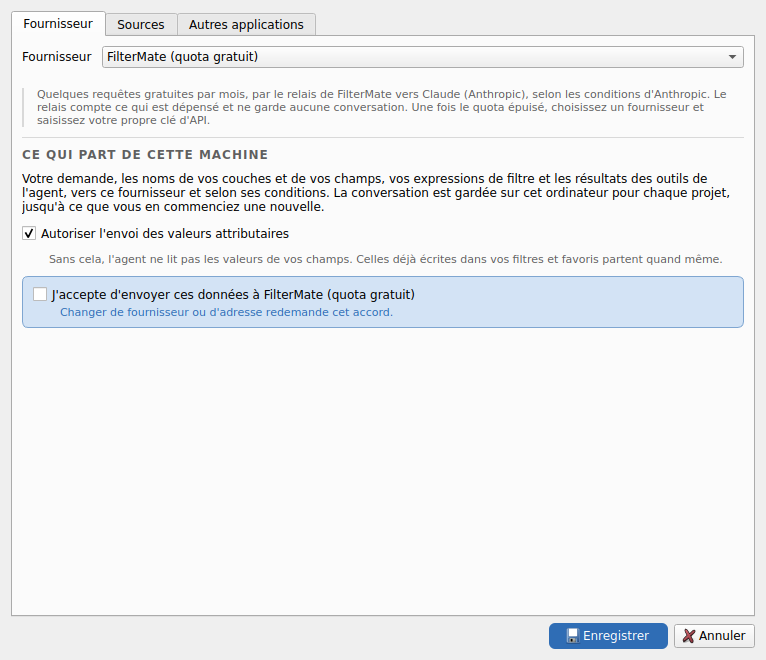
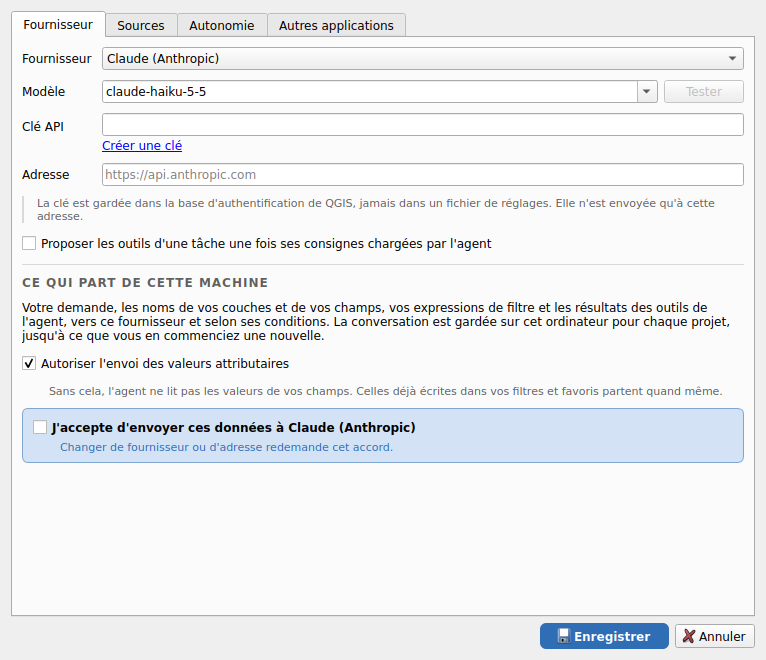
Docs: the guide's settings screenshots retaken without the free quota; Ollama needs no key
A script opens the real settings dialog in QGIS without a screen and saves the two images of the guide
(English and French). The plugin description and the home pages say that the key is for Claude, Mistral,
OpenAI and compatible servers, and that a local Ollama model needs none.

diff --git a/website/index.ru.html b/website/index.ru.html
@@ -124,7 +124,7 @@
             <div class="section-heading"><p class="section-kicker">Экспериментально · Новое в FilterMate 5.1</p><h2 id="agent-title">Попросите фильтр одной фразой.</h2><p>AGENT — это чат в верхней части панели. Напишите, что нужно, например здания выше 1200 m в выбранной коммуне, и он отфильтрует, выделит, приблизит или экспортирует. Любой шаг можно отменить.</p></div>
             <a class="inline-cta" href="guide.html#agent" hreflang="en">Прочитать главу Agent <span aria-hidden="true">→</span> <small lang="en">(EN)</small></a>
         </div>
-        <ul class="capability-list"><li><strong>Ваша модель</strong><span>Claude, Mistral, OpenAI и совместимые серверы или локальная модель Ollama. Ваш собственный ключ API, который хранится в базе аутентификации QGIS; настройки подскажут в обоих случаях.</span></li><li><strong>Отмена по шагам</strong><span>Фильтры применяются сразу. Undo и Redo проходят по запросам агента, а Undo back to here возвращает к любому шагу.</span></li><li><strong>Алгоритмы QGIS</strong><span>Он может находить и запускать алгоритмы Processing, которые создают слои или статистику, на слоях проекта. Каждый результат — временный слой, который удаляет Undo.</span></li><li><strong>Подтверждаете вы</strong><span>Экспорт, а также добавление и удаление слоёв сначала запрашивают подтверждение. Фильтр — это одно простое предложение WHERE, которое проверяется перед выполнением.</span></li><li><strong>Источники, которые вы отмечаете</strong><span>Порталы открытых данных, сервисы WFS, сцены Sentinel-2 и коннекторы MCP — всё выключено, пока вы не отметите.</span></li><li><strong>Сначала ваше согласие</strong><span>Ничего не отправляется, пока вы не выберете модель и не дадите согласие. В руководстве перечислено, что уходит с каждым запросом.</span></li><li><strong>Сервер MCP</strong><span>По умолчанию выключен. Claude Code или другой MCP-клиент на вашем компьютере может управлять FilterMate через 127.0.0.1 с токеном доступа.</span></li></ul>
+        <ul class="capability-list"><li><strong>Ваша модель</strong><span>Ваш собственный ключ API для Claude, Mistral, OpenAI или совместимого сервера, который хранится в базе аутентификации QGIS, либо локальная модель Ollama, которой ключ не нужен; настройки подскажут в обоих случаях.</span></li><li><strong>Отмена по шагам</strong><span>Фильтры применяются сразу. Undo и Redo проходят по запросам агента, а Undo back to here возвращает к любому шагу.</span></li><li><strong>Алгоритмы QGIS</strong><span>Он может находить и запускать алгоритмы Processing, которые создают слои или статистику, на слоях проекта. Каждый результат — временный слой, который удаляет Undo.</span></li><li><strong>Подтверждаете вы</strong><span>Экспорт, а также добавление и удаление слоёв сначала запрашивают подтверждение. Фильтр — это одно простое предложение WHERE, которое проверяется перед выполнением.</span></li><li><strong>Источники, которые вы отмечаете</strong><span>Порталы открытых данных, сервисы WFS, сцены Sentinel-2 и коннекторы MCP — всё выключено, пока вы не отметите.</span></li><li><strong>Сначала ваше согласие</strong><span>Ничего не отправляется, пока вы не выберете модель и не дадите согласие. В руководстве перечислено, что уходит с каждым запросом.</span></li><li><strong>Сервер MCP</strong><span>По умолчанию выключен. Claude Code или другой MCP-клиент на вашем компьютере может управлять FilterMate через 127.0.0.1 с токеном доступа.</span></li></ul>
     </div>
 </section>
 

diff --git a/website/index.ja.html b/website/index.ja.html
@@ -124,7 +124,7 @@
             <div class="section-heading"><p class="section-kicker">試験的機能 · FilterMate 5.1 の新機能</p><h2 id="agent-title">一文でフィルタを頼めます。</h2><p>AGENT はパネル上部のチャットです。「選択した市町村の標高 1200 m 以上の建物」のように書くと、フィルタ、選択、ズーム、エクスポートを行います。各ステップは元に戻せます。</p></div>
             <a class="inline-cta" href="guide.html#agent" hreflang="en">Agent の章を読む <span aria-hidden="true">→</span> <small lang="en">(EN)</small></a>
         </div>
-        <ul class="capability-list"><li><strong>使うモデル</strong><span>Claude、Mistral、OpenAI と互換サーバー、またはローカルの Ollama モデル。ご自身の API キーを使い、キーは QGIS の認証データベースに保存されます。設定画面がどちらも案内します。</span></li><li><strong>ステップごとに元に戻す</strong><span>フィルタはすぐに適用されます。Undo と Redo でエージェントのリクエストを順にたどり、Undo back to here で任意のステップまで戻れます。</span></li><li><strong>QGIS のアルゴリズム</strong><span>レイヤまたは統計値を出力する Processing アルゴリズムを、プロジェクトのレイヤに対して検索・実行できます。結果はそれぞれ一時レイヤで、Undo で取り除かれます。</span></li><li><strong>確認は利用者が行う</strong><span>エクスポートと、レイヤの追加・削除は、先に確認を求めます。フィルタは単純な WHERE 句ひとつで、実行前に検査されます。</span></li><li><strong>チェックを入れたソースだけ</strong><span>オープンデータポータル、WFS サービス、Sentinel-2 のシーン、MCP コネクタ。チェックを入れるまで、すべて無効です。</span></li><li><strong>まず同意を得る</strong><span>モデルを選んで同意するまで、何も送信されません。リクエストごとに何が送られるかは、ガイドに一覧があります。</span></li><li><strong>MCP サーバー</strong><span>初期設定ではオフです。お使いのコンピューター上の Claude Code などの MCP クライアントが、アクセストークンを使って 127.0.0.1 経由で FilterMate を操作できます。</span></li></ul>
+        <ul class="capability-list"><li><strong>使うモデル</strong><span>Claude、Mistral、OpenAI、互換サーバーにはご自身の API キーを使い、キーは QGIS の認証データベースに保存されます。ローカルの Ollama モデルにはキーは不要です。設定画面がどちらも案内します。</span></li><li><strong>ステップごとに元に戻す</strong><span>フィルタはすぐに適用されます。Undo と Redo でエージェントのリクエストを順にたどり、Undo back to here で任意のステップまで戻れます。</span></li><li><strong>QGIS のアルゴリズム</strong><span>レイヤまたは統計値を出力する Processing アルゴリズムを、プロジェクトのレイヤに対して検索・実行できます。結果はそれぞれ一時レイヤで、Undo で取り除かれます。</span></li><li><strong>確認は利用者が行う</strong><span>エクスポートと、レイヤの追加・削除は、先に確認を求めます。フィルタは単純な WHERE 句ひとつで、実行前に検査されます。</span></li><li><strong>チェックを入れたソースだけ</strong><span>オープンデータポータル、WFS サービス、Sentinel-2 のシーン、MCP コネクタ。チェックを入れるまで、すべて無効です。</span></li><li><strong>まず同意を得る</strong><span>モデルを選んで同意するまで、何も送信されません。リクエストごとに何が送られるかは、ガイドに一覧があります。</span></li><li><strong>MCP サーバー</strong><span>初期設定ではオフです。お使いのコンピューター上の Claude Code などの MCP クライアントが、アクセストークンを使って 127.0.0.1 経由で FilterMate を操作できます。</span></li></ul>
     </div>
 </section>
 

diff --git a/website/index.fr.html b/website/index.fr.html
@@ -120,7 +120,7 @@
             <div class="section-heading"><p class="section-kicker">Expérimental · Nouveau dans FilterMate 5.1</p><h2 id="agent-title">Demandez un filtre en une phrase.</h2><p>AGENT est un tchat en haut du panneau. Écrivez ce que vous voulez, par exemple les bâtiments au-dessus de 1200 m dans la commune sélectionnée, et il filtre, sélectionne, zoome ou exporte. Chaque étape peut être annulée.</p></div>
             <a class="inline-cta" href="guide.fr.html#agent">Lire le chapitre Agent <span aria-hidden="true">→</span></a>
         </div>
-        <ul class="capability-list"><li><strong>Votre modèle</strong><span>Claude, Mistral, OpenAI et serveurs compatibles, ou un modèle Ollama local. Votre propre clé d’API, conservée dans la base d’authentification de QGIS ; les réglages guident dans les deux cas.</span></li><li><strong>Annuler par étape</strong><span>Les filtres s’appliquent aussitôt. Undo et Redo parcourent les demandes de l’agent, et « Annuler jusqu’ici » revient à n’importe quelle étape.</span></li><li><strong>Algorithmes QGIS</strong><span>Il peut chercher et lancer des algorithmes Processing qui produisent des couches ou des statistiques, sur des couches du projet. Chaque résultat est une couche temporaire que Undo retire.</span></li><li><strong>Vous confirmez</strong><span>Les exports et les couches ajoutées ou retirées demandent d’abord. Un filtre est une simple clause WHERE, vérifiée avant de s’exécuter.</span></li><li><strong>Sources que vous cochez</strong><span>Portails de données ouvertes, services WFS, scènes Sentinel-2 et connecteurs MCP, tous désactivés tant que vous ne les cochez pas.</span></li><li><strong>Votre accord d’abord</strong><span>Rien n’est envoyé avant que vous ayez choisi un modèle et donné votre accord. Le guide liste ce qui part avec chaque requête.</span></li><li><strong>Serveur MCP</strong><span>Désactivé par défaut. Claude Code ou un autre client MCP de votre ordinateur peut piloter FilterMate par 127.0.0.1, avec un jeton d’accès.</span></li></ul>
+        <ul class="capability-list"><li><strong>Votre modèle</strong><span>Votre propre clé d’API pour Claude, Mistral, OpenAI ou un serveur compatible, conservée dans la base d’authentification de QGIS, ou un modèle Ollama local, qui n’en demande aucune ; les réglages guident dans les deux cas.</span></li><li><strong>Annuler par étape</strong><span>Les filtres s’appliquent aussitôt. Undo et Redo parcourent les demandes de l’agent, et « Annuler jusqu’ici » revient à n’importe quelle étape.</span></li><li><strong>Algorithmes QGIS</strong><span>Il peut chercher et lancer des algorithmes Processing qui produisent des couches ou des statistiques, sur des couches du projet. Chaque résultat est une couche temporaire que Undo retire.</span></li><li><strong>Vous confirmez</strong><span>Les exports et les couches ajoutées ou retirées demandent d’abord. Un filtre est une simple clause WHERE, vérifiée avant de s’exécuter.</span></li><li><strong>Sources que vous cochez</strong><span>Portails de données ouvertes, services WFS, scènes Sentinel-2 et connecteurs MCP, tous désactivés tant que vous ne les cochez pas.</span></li><li><strong>Votre accord d’abord</strong><span>Rien n’est envoyé avant que vous ayez choisi un modèle et donné votre accord. Le guide liste ce qui part avec chaque requête.</span></li><li><strong>Serveur MCP</strong><span>Désactivé par défaut. Claude Code ou un autre client MCP de votre ordinateur peut piloter FilterMate par 127.0.0.1, avec un jeton d’accès.</span></li></ul>
     </div>
 </section>
 

diff --git a/website/index.de.html b/website/index.de.html
@@ -124,7 +124,7 @@
             <div class="section-heading"><p class="section-kicker">Experimentell · Neu in FilterMate 5.1</p><h2 id="agent-title">Bitten Sie in einem Satz um einen Filter.</h2><p>AGENT ist ein Chat oben im Panel. Schreiben Sie, was Sie wollen, etwa Gebäude über 1200 m in der gewählten Gemeinde, und er filtert, wählt aus, zoomt oder exportiert. Jeder Schritt lässt sich rückgängig machen.</p></div>
             <a class="inline-cta" href="guide.html#agent" hreflang="en">Das Kapitel Agent lesen <span aria-hidden="true">→</span> <small lang="en">(EN)</small></a>
         </div>
-        <ul class="capability-list"><li><strong>Ihr Modell</strong><span>Claude, Mistral, OpenAI und kompatible Server oder ein lokales Ollama-Modell. Ihr eigener API-Schlüssel, gespeichert in der QGIS-Authentifizierungsdatenbank; die Einstellungen führen durch beides.</span></li><li><strong>Rückgängig pro Schritt</strong><span>Filter werden sofort angewendet. Undo und Redo gehen die Anfragen des Agenten durch, und „Undo back to here“ führt zu jedem Schritt zurück.</span></li><li><strong>QGIS-Algorithmen</strong><span>Er kann Processing-Algorithmen finden und ausführen, die Ebenen oder Statistiken liefern, auf Ebenen des Projekts. Jedes Ergebnis ist eine temporäre Ebene, die Undo entfernt.</span></li><li><strong>Sie bestätigen</strong><span>Exporte sowie hinzugefügte oder entfernte Ebenen fragen zuerst nach. Ein Filter ist eine einfache WHERE-Klausel, die vor der Ausführung geprüft wird.</span></li><li><strong>Quellen, die Sie ankreuzen</strong><span>Open-Data-Portale, WFS-Dienste, Sentinel-2-Szenen und MCP-Konnektoren, alle aus, bis Sie sie ankreuzen.</span></li><li><strong>Erst Ihre Zustimmung</strong><span>Nichts wird gesendet, bevor Sie ein Modell wählen und zustimmen. Die Anleitung listet auf, was mit jeder Anfrage mitgeht.</span></li><li><strong>MCP-Server</strong><span>Standardmäßig aus. Claude Code oder ein anderer MCP-Client auf Ihrem Rechner kann FilterMate über 127.0.0.1 steuern, mit einem Zugriffstoken.</span></li></ul>
+        <ul class="capability-list"><li><strong>Ihr Modell</strong><span>Ihr eigener API-Schlüssel für Claude, Mistral, OpenAI oder einen kompatiblen Server, gespeichert in der QGIS-Authentifizierungsdatenbank, oder ein lokales Ollama-Modell, das keinen braucht; die Einstellungen führen durch beides.</span></li><li><strong>Rückgängig pro Schritt</strong><span>Filter werden sofort angewendet. Undo und Redo gehen die Anfragen des Agenten durch, und „Undo back to here“ führt zu jedem Schritt zurück.</span></li><li><strong>QGIS-Algorithmen</strong><span>Er kann Processing-Algorithmen finden und ausführen, die Ebenen oder Statistiken liefern, auf Ebenen des Projekts. Jedes Ergebnis ist eine temporäre Ebene, die Undo entfernt.</span></li><li><strong>Sie bestätigen</strong><span>Exporte sowie hinzugefügte oder entfernte Ebenen fragen zuerst nach. Ein Filter ist eine einfache WHERE-Klausel, die vor der Ausführung geprüft wird.</span></li><li><strong>Quellen, die Sie ankreuzen</strong><span>Open-Data-Portale, WFS-Dienste, Sentinel-2-Szenen und MCP-Konnektoren, alle aus, bis Sie sie ankreuzen.</span></li><li><strong>Erst Ihre Zustimmung</strong><span>Nichts wird gesendet, bevor Sie ein Modell wählen und zustimmen. Die Anleitung listet auf, was mit jeder Anfrage mitgeht.</span></li><li><strong>MCP-Server</strong><span>Standardmäßig aus. Claude Code oder ein anderer MCP-Client auf Ihrem Rechner kann FilterMate über 127.0.0.1 steuern, mit einem Zugriffstoken.</span></li></ul>
     </div>
 </section>
 

diff --git a/website/index.it.html b/website/index.it.html
@@ -124,7 +124,7 @@
             <div class="section-heading"><p class="section-kicker">Sperimentale · Novità di FilterMate 5.1</p><h2 id="agent-title">Chiedete un filtro con una frase.</h2><p>AGENT è una chat in cima al pannello. Scrivete ciò che volete, per esempio gli edifici sopra i 1200 m nel comune selezionato, e filtra, seleziona, zooma o esporta. Ogni passaggio si può annullare.</p></div>
             <a class="inline-cta" href="guide.html#agent" hreflang="en">Leggi il capitolo Agent <span aria-hidden="true">→</span> <small lang="en">(EN)</small></a>
         </div>
-        <ul class="capability-list"><li><strong>Il vostro modello</strong><span>Claude, Mistral, OpenAI e server compatibili, oppure un modello Ollama locale. La vostra chiave API, conservata nel database di autenticazione di QGIS; le impostazioni guidano in entrambi i casi.</span></li><li><strong>Annulla per passaggio</strong><span>I filtri si applicano subito. Undo e Redo percorrono le richieste dell’agente, e Undo back to here torna a qualsiasi passaggio.</span></li><li><strong>Algoritmi di QGIS</strong><span>Può cercare ed eseguire algoritmi di Processing che producono livelli o statistiche, su livelli del progetto. Ogni risultato è un livello temporaneo che Undo rimuove.</span></li><li><strong>Confermate voi</strong><span>Esportazioni e livelli aggiunti o rimossi chiedono prima conferma. Un filtro è una semplice clausola WHERE, controllata prima dell’esecuzione.</span></li><li><strong>Fonti che spuntate</strong><span>Portali di dati aperti, servizi WFS, scene Sentinel-2 e connettori MCP, tutti disattivati finché non li spuntate.</span></li><li><strong>Prima il vostro consenso</strong><span>Non viene inviato nulla prima che scegliate un modello e diate il consenso. La guida elenca ciò che accompagna ogni richiesta.</span></li><li><strong>Server MCP</strong><span>Disattivato per impostazione predefinita. Claude Code o un altro client MCP sul vostro computer può pilotare FilterMate tramite 127.0.0.1, con un token di accesso.</span></li></ul>
+        <ul class="capability-list"><li><strong>Il vostro modello</strong><span>La vostra chiave API per Claude, Mistral, OpenAI o un server compatibile, conservata nel database di autenticazione di QGIS, oppure un modello Ollama locale, che non ne richiede nessuna; le impostazioni guidano in entrambi i casi.</span></li><li><strong>Annulla per passaggio</strong><span>I filtri si applicano subito. Undo e Redo percorrono le richieste dell’agente, e Undo back to here torna a qualsiasi passaggio.</span></li><li><strong>Algoritmi di QGIS</strong><span>Può cercare ed eseguire algoritmi di Processing che producono livelli o statistiche, su livelli del progetto. Ogni risultato è un livello temporaneo che Undo rimuove.</span></li><li><strong>Confermate voi</strong><span>Esportazioni e livelli aggiunti o rimossi chiedono prima conferma. Un filtro è una semplice clausola WHERE, controllata prima dell’esecuzione.</span></li><li><strong>Fonti che spuntate</strong><span>Portali di dati aperti, servizi WFS, scene Sentinel-2 e connettori MCP, tutti disattivati finché non li spuntate.</span></li><li><strong>Prima il vostro consenso</strong><span>Non viene inviato nulla prima che scegliate un modello e diate il consenso. La guida elenca ciò che accompagna ogni richiesta.</span></li><li><strong>Server MCP</strong><span>Disattivato per impostazione predefinita. Claude Code o un altro client MCP sul vostro computer può pilotare FilterMate tramite 127.0.0.1, con un token di accesso.</span></li></ul>
     </div>
 </section>
 

diff --git a/website/index.pt-br.html b/website/index.pt-br.html
@@ -124,7 +124,7 @@
             <div class="section-heading"><p class="section-kicker">Experimental · Novo no FilterMate 5.1</p><h2 id="agent-title">Peça um filtro em uma frase.</h2><p>O AGENT é um chat no alto do painel. Escreva o que quer, por exemplo edifícios acima de 1200 m no município selecionado, e ele filtra, seleciona, dá zoom ou exporta. Cada etapa pode ser desfeita.</p></div>
             <a class="inline-cta" href="guide.html#agent" hreflang="en">Ler o capítulo Agent <span aria-hidden="true">→</span> <small lang="en">(EN)</small></a>
         </div>
-        <ul class="capability-list"><li><strong>Seu modelo</strong><span>Claude, Mistral, OpenAI e servidores compatíveis, ou um modelo Ollama local. Sua própria chave de API, guardada no banco de autenticação do QGIS; as configurações guiam nos dois casos.</span></li><li><strong>Desfazer por etapa</strong><span>Os filtros são aplicados na hora. Undo e Redo percorrem as solicitações do agente, e Undo back to here volta a qualquer etapa.</span></li><li><strong>Algoritmos do QGIS</strong><span>Ele pode encontrar e executar algoritmos do Processing que produzem camadas ou estatísticas, sobre camadas do projeto. Cada resultado é uma camada temporária que o Undo remove.</span></li><li><strong>Você confirma</strong><span>Exportações e camadas adicionadas ou removidas pedem confirmação antes. Um filtro é uma simples cláusula WHERE, verificada antes de ser executada.</span></li><li><strong>Fontes que você marca</strong><span>Portais de dados abertos, serviços WFS, cenas Sentinel-2 e conectores MCP, todos desligados até você marcá-los.</span></li><li><strong>Primeiro, seu consentimento</strong><span>Nada é enviado antes de você escolher um modelo e concordar. O guia lista o que vai com cada solicitação.</span></li><li><strong>Servidor MCP</strong><span>Desligado por padrão. O Claude Code ou outro cliente MCP no seu computador pode controlar o FilterMate por 127.0.0.1, com um token de acesso.</span></li></ul>
+        <ul class="capability-list"><li><strong>Seu modelo</strong><span>Sua própria chave de API para Claude, Mistral, OpenAI ou um servidor compatível, guardada no banco de autenticação do QGIS, ou um modelo Ollama local, que não precisa de nenhuma; as configurações guiam nos dois casos.</span></li><li><strong>Desfazer por etapa</strong><span>Os filtros são aplicados na hora. Undo e Redo percorrem as solicitações do agente, e Undo back to here volta a qualquer etapa.</span></li><li><strong>Algoritmos do QGIS</strong><span>Ele pode encontrar e executar algoritmos do Processing que produzem camadas ou estatísticas, sobre camadas do projeto. Cada resultado é uma camada temporária que o Undo remove.</span></li><li><strong>Você confirma</strong><span>Exportações e camadas adicionadas ou removidas pedem confirmação antes. Um filtro é uma simples cláusula WHERE, verificada antes de ser executada.</span></li><li><strong>Fontes que você marca</strong><span>Portais de dados abertos, serviços WFS, cenas Sentinel-2 e conectores MCP, todos desligados até você marcá-los.</span></li><li><strong>Primeiro, seu consentimento</strong><span>Nada é enviado antes de você escolher um modelo e concordar. O guia lista o que vai com cada solicitação.</span></li><li><strong>Servidor MCP</strong><span>Desligado por padrão. O Claude Code ou outro cliente MCP no seu computador pode controlar o FilterMate por 127.0.0.1, com um token de acesso.</span></li></ul>
     </div>
 </section>
 

diff --git a/website/index.es.html b/website/index.es.html
@@ -124,7 +124,7 @@
             <div class="section-heading"><p class="section-kicker">Experimental · Novedad de FilterMate 5.1</p><h2 id="agent-title">Pida un filtro con una frase.</h2><p>AGENT es un chat en la parte superior del panel. Escriba lo que quiere, por ejemplo edificios por encima de 1200 m en el municipio seleccionado, y filtra, selecciona, hace zoom o exporta. Cada paso se puede deshacer.</p></div>
             <a class="inline-cta" href="guide.html#agent" hreflang="en">Leer el capítulo Agent <span aria-hidden="true">→</span> <small lang="en">(EN)</small></a>
         </div>
-        <ul class="capability-list"><li><strong>Su modelo</strong><span>Claude, Mistral, OpenAI y servidores compatibles, o un modelo Ollama local. Su propia clave de API, guardada en la base de datos de autenticación de QGIS; los ajustes guían ambos casos.</span></li><li><strong>Deshacer por paso</strong><span>Los filtros se aplican al instante. Undo y Redo recorren las solicitudes del agente, y Undo back to here vuelve a cualquier paso.</span></li><li><strong>Algoritmos de QGIS</strong><span>Puede buscar y ejecutar algoritmos de Processing que producen capas o estadísticas, sobre capas del proyecto. Cada resultado es una capa temporal que Undo elimina.</span></li><li><strong>Usted confirma</strong><span>Las exportaciones y las capas añadidas o quitadas piden confirmación antes. Un filtro es una simple cláusula WHERE, comprobada antes de ejecutarse.</span></li><li><strong>Fuentes que usted marca</strong><span>Portales de datos abiertos, servicios WFS, escenas Sentinel-2 y conectores MCP, todos desactivados hasta que los marque.</span></li><li><strong>Primero, su consentimiento</strong><span>No se envía nada antes de que elija un modelo y acepte. La guía enumera lo que acompaña a cada solicitud.</span></li><li><strong>Servidor MCP</strong><span>Desactivado de forma predeterminada. Claude Code u otro cliente MCP de su equipo puede controlar FilterMate por 127.0.0.1, con un token de acceso.</span></li></ul>
+        <ul class="capability-list"><li><strong>Su modelo</strong><span>Su propia clave de API para Claude, Mistral, OpenAI o un servidor compatible, guardada en la base de datos de autenticación de QGIS, o un modelo Ollama local, que no necesita ninguna; los ajustes guían ambos casos.</span></li><li><strong>Deshacer por paso</strong><span>Los filtros se aplican al instante. Undo y Redo recorren las solicitudes del agente, y Undo back to here vuelve a cualquier paso.</span></li><li><strong>Algoritmos de QGIS</strong><span>Puede buscar y ejecutar algoritmos de Processing que producen capas o estadísticas, sobre capas del proyecto. Cada resultado es una capa temporal que Undo elimina.</span></li><li><strong>Usted confirma</strong><span>Las exportaciones y las capas añadidas o quitadas piden confirmación antes. Un filtro es una simple cláusula WHERE, comprobada antes de ejecutarse.</span></li><li><strong>Fuentes que usted marca</strong><span>Portales de datos abiertos, servicios WFS, escenas Sentinel-2 y conectores MCP, todos desactivados hasta que los marque.</span></li><li><strong>Primero, su consentimiento</strong><span>No se envía nada antes de que elija un modelo y acepte. La guía enumera lo que acompaña a cada solicitud.</span></li><li><strong>Servidor MCP</strong><span>Desactivado de forma predeterminada. Claude Code u otro cliente MCP de su equipo puede controlar FilterMate por 127.0.0.1, con un token de acceso.</span></li></ul>
     </div>
 </section>
 

diff --git a/website/index.pl.html b/website/index.pl.html
@@ -124,7 +124,7 @@
             <div class="section-heading"><p class="section-kicker">Eksperymentalne · Nowość w FilterMate 5.1</p><h2 id="agent-title">Poproś o filtr jednym zdaniem.</h2><p>AGENT to czat u góry panelu. Napisz, czego chcesz, na przykład budynki powyżej 1200 m w wybranej gminie, a on filtruje, zaznacza, przybliża lub eksportuje. Każdy krok można cofnąć.</p></div>
             <a class="inline-cta" href="guide.html#agent" hreflang="en">Przeczytaj rozdział Agent <span aria-hidden="true">→</span> <small lang="en">(EN)</small></a>
         </div>
-        <ul class="capability-list"><li><strong>Twój model</strong><span>Claude, Mistral, OpenAI i zgodne serwery albo lokalny model Ollama. Własny klucz API, przechowywany w bazie uwierzytelniania QGIS; ustawienia prowadzą przez oba przypadki.</span></li><li><strong>Cofanie krok po kroku</strong><span>Filtry stosują się od razu. Undo i Redo przechodzą przez żądania agenta, a Undo back to here wraca do dowolnego kroku.</span></li><li><strong>Algorytmy QGIS</strong><span>Może wyszukiwać i uruchamiać algorytmy Processing, które tworzą warstwy lub statystyki, na warstwach projektu. Każdy wynik to warstwa tymczasowa, którą usuwa Undo.</span></li><li><strong>Ty potwierdzasz</strong><span>Eksporty oraz dodawanie i usuwanie warstw najpierw pytają o zgodę. Filtr to jedna zwykła klauzula WHERE, sprawdzana przed wykonaniem.</span></li><li><strong>Źródła, które zaznaczasz</strong><span>Portale otwartych danych, usługi WFS, sceny Sentinel-2 i konektory MCP, wszystko wyłączone, dopóki tego nie zaznaczysz.</span></li><li><strong>Najpierw Twoja zgoda</strong><span>Nic nie jest wysyłane, zanim wybierzesz model i wyrazisz zgodę. Przewodnik wylicza, co trafia do modelu z każdym zapytaniem.</span></li><li><strong>Serwer MCP</strong><span>Domyślnie wyłączony. Claude Code lub inny klient MCP na Twoim komputerze może sterować FilterMate przez 127.0.0.1, z tokenem dostępu.</span></li></ul>
+        <ul class="capability-list"><li><strong>Twój model</strong><span>Własny klucz API dla Claude, Mistral, OpenAI lub zgodnego serwera, przechowywany w bazie uwierzytelniania QGIS, albo lokalny model Ollama, który żadnego nie potrzebuje; ustawienia prowadzą przez oba przypadki.</span></li><li><strong>Cofanie krok po kroku</strong><span>Filtry stosują się od razu. Undo i Redo przechodzą przez żądania agenta, a Undo back to here wraca do dowolnego kroku.</span></li><li><strong>Algorytmy QGIS</strong><span>Może wyszukiwać i uruchamiać algorytmy Processing, które tworzą warstwy lub statystyki, na warstwach projektu. Każdy wynik to warstwa tymczasowa, którą usuwa Undo.</span></li><li><strong>Ty potwierdzasz</strong><span>Eksporty oraz dodawanie i usuwanie warstw najpierw pytają o zgodę. Filtr to jedna zwykła klauzula WHERE, sprawdzana przed wykonaniem.</span></li><li><strong>Źródła, które zaznaczasz</strong><span>Portale otwartych danych, usługi WFS, sceny Sentinel-2 i konektory MCP, wszystko wyłączone, dopóki tego nie zaznaczysz.</span></li><li><strong>Najpierw Twoja zgoda</strong><span>Nic nie jest wysyłane, zanim wybierzesz model i wyrazisz zgodę. Przewodnik wylicza, co trafia do modelu z każdym zapytaniem.</span></li><li><strong>Serwer MCP</strong><span>Domyślnie wyłączony. Claude Code lub inny klient MCP na Twoim komputerze może sterować FilterMate przez 127.0.0.1, z tokenem dostępu.</span></li></ul>
     </div>
 </section>
 

diff --git a/website/index.nl.html b/website/index.nl.html
@@ -124,7 +124,7 @@
             <div class="section-heading"><p class="section-kicker">Experimenteel · Nieuw in FilterMate 5.1</p><h2 id="agent-title">Vraag een filter in één zin.</h2><p>AGENT is een chat bovenaan het paneel. Schrijf wat je wilt, bijvoorbeeld gebouwen boven 1200 m in de gekozen gemeente, en hij filtert, selecteert, zoomt of exporteert. Elke stap kan ongedaan worden gemaakt.</p></div>
             <a class="inline-cta" href="guide.html#agent" hreflang="en">Het hoofdstuk Agent lezen <span aria-hidden="true">→</span> <small lang="en">(EN)</small></a>
         </div>
-        <ul class="capability-list"><li><strong>Jouw model</strong><span>Claude, Mistral, OpenAI en compatibele servers, of een lokaal Ollama-model. Je eigen API-sleutel, bewaard in de QGIS-authenticatiedatabase; de instellingen begeleiden beide.</span></li><li><strong>Ongedaan per stap</strong><span>Filters worden direct toegepast. Undo en Redo doorlopen de verzoeken van de agent, en Undo back to here gaat terug naar elke stap.</span></li><li><strong>QGIS-algoritmen</strong><span>Hij kan Processing-algoritmen zoeken en uitvoeren die lagen of statistieken opleveren, op lagen van het project. Elk resultaat is een tijdelijke laag die Undo verwijdert.</span></li><li><strong>Jij bevestigt</strong><span>Exports en toegevoegde of verwijderde lagen vragen eerst om bevestiging. Een filter is één gewone WHERE-clausule, gecontroleerd voordat hij wordt uitgevoerd.</span></li><li><strong>Bronnen die je aanvinkt</strong><span>Open-dataportalen, WFS-services, Sentinel-2-scènes en MCP-connectors, allemaal uit totdat je ze aanvinkt.</span></li><li><strong>Eerst jouw toestemming</strong><span>Er wordt niets verzonden voordat je een model kiest en akkoord gaat. De handleiding somt op wat met elk verzoek meegaat.</span></li><li><strong>MCP-server</strong><span>Standaard uit. Claude Code of een andere MCP-client op je computer kan FilterMate bedienen via 127.0.0.1, met een toegangstoken.</span></li></ul>
+        <ul class="capability-list"><li><strong>Jouw model</strong><span>Je eigen API-sleutel voor Claude, Mistral, OpenAI of een compatibele server, bewaard in de QGIS-authenticatiedatabase, of een lokaal Ollama-model, dat er geen nodig heeft; de instellingen begeleiden beide.</span></li><li><strong>Ongedaan per stap</strong><span>Filters worden direct toegepast. Undo en Redo doorlopen de verzoeken van de agent, en Undo back to here gaat terug naar elke stap.</span></li><li><strong>QGIS-algoritmen</strong><span>Hij kan Processing-algoritmen zoeken en uitvoeren die lagen of statistieken opleveren, op lagen van het project. Elk resultaat is een tijdelijke laag die Undo verwijdert.</span></li><li><strong>Jij bevestigt</strong><span>Exports en toegevoegde of verwijderde lagen vragen eerst om bevestiging. Een filter is één gewone WHERE-clausule, gecontroleerd voordat hij wordt uitgevoerd.</span></li><li><strong>Bronnen die je aanvinkt</strong><span>Open-dataportalen, WFS-services, Sentinel-2-scènes en MCP-connectors, allemaal uit totdat je ze aanvinkt.</span></li><li><strong>Eerst jouw toestemming</strong><span>Er wordt niets verzonden voordat je een model kiest en akkoord gaat. De handleiding somt op wat met elk verzoek meegaat.</span></li><li><strong>MCP-server</strong><span>Standaard uit. Claude Code of een andere MCP-client op je computer kan FilterMate bedienen via 127.0.0.1, met een toegangstoken.</span></li></ul>
     </div>
 </section>
 

diff --git a/website/index.sv.html b/website/index.sv.html
@@ -124,7 +124,7 @@
             <div class="section-heading"><p class="section-kicker">Experimentellt · Nytt i FilterMate 5.1</p><h2 id="agent-title">Be om ett filter med en mening.</h2><p>AGENT är en chatt högst upp i panelen. Skriv vad du vill, till exempel byggnader över 1200 m i vald kommun, så filtrerar, väljer, zoomar eller exporterar den. Varje steg kan ångras.</p></div>
             <a class="inline-cta" href="guide.html#agent" hreflang="en">Läs kapitlet Agent <span aria-hidden="true">→</span> <small lang="en">(EN)</small></a>
         </div>
-        <ul class="capability-list"><li><strong>Din modell</strong><span>Claude, Mistral, OpenAI och kompatibla servrar, eller en lokal Ollama-modell. Din egen API-nyckel, lagrad i QGIS autentiseringsdatabas; inställningarna vägleder i båda fallen.</span></li><li><strong>Ångra steg för steg</strong><span>Filter tillämpas direkt. Undo och Redo går igenom agentens förfrågningar, och Undo back to here går tillbaka till valfritt steg.</span></li><li><strong>QGIS-algoritmer</strong><span>Den kan hitta och köra Processing-algoritmer som skapar lager eller statistik, på lager i projektet. Varje resultat är ett tillfälligt lager som Undo tar bort.</span></li><li><strong>Du bekräftar</strong><span>Exporter och tillagda eller borttagna lager frågar först. Ett filter är en enda enkel WHERE-sats, som kontrolleras innan den körs.</span></li><li><strong>Källor du bockar i</strong><span>Öppna dataportaler, WFS-tjänster, Sentinel-2-scener och MCP-kopplingar, allt avstängt tills du bockar i det.</span></li><li><strong>Ditt samtycke först</strong><span>Inget skickas innan du har valt en modell och godkänt. Guiden listar vad som följer med varje förfrågan.</span></li><li><strong>MCP-server</strong><span>Av som standard. Claude Code eller en annan MCP-klient på din dator kan styra FilterMate via 127.0.0.1, med en åtkomsttoken.</span></li></ul>
+        <ul class="capability-list"><li><strong>Din modell</strong><span>Din egen API-nyckel för Claude, Mistral, OpenAI eller en kompatibel server, lagrad i QGIS autentiseringsdatabas, eller en lokal Ollama-modell, som inte behöver någon; inställningarna vägleder i båda fallen.</span></li><li><strong>Ångra steg för steg</strong><span>Filter tillämpas direkt. Undo och Redo går igenom agentens förfrågningar, och Undo back to here går tillbaka till valfritt steg.</span></li><li><strong>QGIS-algoritmer</strong><span>Den kan hitta och köra Processing-algoritmer som skapar lager eller statistik, på lager i projektet. Varje resultat är ett tillfälligt lager som Undo tar bort.</span></li><li><strong>Du bekräftar</strong><span>Exporter och tillagda eller borttagna lager frågar först. Ett filter är en enda enkel WHERE-sats, som kontrolleras innan den körs.</span></li><li><strong>Källor du bockar i</strong><span>Öppna dataportaler, WFS-tjänster, Sentinel-2-scener och MCP-kopplingar, allt avstängt tills du bockar i det.</span></li><li><strong>Ditt samtycke först</strong><span>Inget skickas innan du har valt en modell och godkänt. Guiden listar vad som följer med varje förfrågan.</span></li><li><strong>MCP-server</strong><span>Av som standard. Claude Code eller en annan MCP-klient på din dator kan styra FilterMate via 127.0.0.1, med en åtkomsttoken.</span></li></ul>
     </div>
 </section>
 

diff --git a/website/index.zh-hant.html b/website/index.zh-hant.html
@@ -124,7 +124,7 @@
             <div class="section-heading"><p class="section-kicker">實驗性 · FilterMate 5.1 新功能</p><h2 id="agent-title">用一句話要求篩選。</h2><p>AGENT 是面板頂端的聊天區。寫下你想要的內容，例如所選鄉鎮中海拔 1200 m 以上的建物，它就會篩選、選取、縮放或匯出。每一步都可以復原。</p></div>
             <a class="inline-cta" href="guide.html#agent" hreflang="en">閱讀 Agent 章節 <span aria-hidden="true">→</span> <small lang="en">(EN)</small></a>
         </div>
-        <ul class="capability-list"><li><strong>你的模型</strong><span>Claude、Mistral、OpenAI 與相容的伺服器，或本機的 Ollama 模型。使用你自己的 API 金鑰，金鑰存放在 QGIS 驗證資料庫中；設定畫面會引導這兩種方式。</span></li><li><strong>逐步復原</strong><span>篩選會立即套用。Undo 與 Redo 會逐一走過代理的請求，Undo back to here 則可回到任一步驟。</span></li><li><strong>QGIS 演算法</strong><span>它能搜尋並執行會產生圖層或統計值的 Processing 演算法，輸入為專案中的圖層。每個結果都是暫存圖層，Undo 會將它移除。</span></li><li><strong>由你確認</strong><span>匯出，以及新增或移除圖層，都會先詢問。篩選條件只是一句單純的 WHERE 子句，執行前會先檢查。</span></li><li><strong>由你勾選的來源</strong><span>開放資料入口網站、WFS 服務、Sentinel-2 影像與 MCP 連接器，在你勾選之前全部關閉。</span></li><li><strong>先取得你的同意</strong><span>在你選好模型並同意之前，不會傳送任何內容。指南列出了每次請求會一併送出的內容。</span></li><li><strong>MCP 伺服器</strong><span>預設關閉。你電腦上的 Claude Code 或其他 MCP 用戶端，可透過 127.0.0.1 並憑存取權杖操作 FilterMate。</span></li></ul>
+        <ul class="capability-list"><li><strong>你的模型</strong><span>Claude、Mistral、OpenAI 或相容伺服器使用你自己的 API 金鑰，金鑰存放在 QGIS 驗證資料庫中；本機的 Ollama 模型則不需要金鑰。設定畫面會引導這兩種方式。</span></li><li><strong>逐步復原</strong><span>篩選會立即套用。Undo 與 Redo 會逐一走過代理的請求，Undo back to here 則可回到任一步驟。</span></li><li><strong>QGIS 演算法</strong><span>它能搜尋並執行會產生圖層或統計值的 Processing 演算法，輸入為專案中的圖層。每個結果都是暫存圖層，Undo 會將它移除。</span></li><li><strong>由你確認</strong><span>匯出，以及新增或移除圖層，都會先詢問。篩選條件只是一句單純的 WHERE 子句，執行前會先檢查。</span></li><li><strong>由你勾選的來源</strong><span>開放資料入口網站、WFS 服務、Sentinel-2 影像與 MCP 連接器，在你勾選之前全部關閉。</span></li><li><strong>先取得你的同意</strong><span>在你選好模型並同意之前，不會傳送任何內容。指南列出了每次請求會一併送出的內容。</span></li><li><strong>MCP 伺服器</strong><span>預設關閉。你電腦上的 Claude Code 或其他 MCP 用戶端，可透過 127.0.0.1 並憑存取權杖操作 FilterMate。</span></li></ul>
     </div>
 </section>
 

diff --git a/website/index.zh-hans.html b/website/index.zh-hans.html
@@ -124,7 +124,7 @@
             <div class="section-heading"><p class="section-kicker">实验性 · FilterMate 5.1 新功能</p><h2 id="agent-title">用一句话提出筛选需求。</h2><p>AGENT 是面板顶部的聊天区。写下你想要的内容，例如所选市镇中海拔 1200 m 以上的建筑，它就会筛选、选择、缩放或导出。每一步都可以撤销。</p></div>
             <a class="inline-cta" href="guide.html#agent" hreflang="en">阅读 Agent 章节 <span aria-hidden="true">→</span> <small lang="en">(EN)</small></a>
         </div>
-        <ul class="capability-list"><li><strong>你的模型</strong><span>Claude、Mistral、OpenAI 及兼容的服务器，或本地的 Ollama 模型。使用你自己的 API 密钥，密钥保存在 QGIS 认证数据库中；设置界面会引导这两种方式。</span></li><li><strong>逐步撤销</strong><span>筛选会立即应用。Undo 和 Redo 会逐个走过代理的请求，Undo back to here 则可回到任意一步。</span></li><li><strong>QGIS 算法</strong><span>它能搜索并运行会产生图层或统计值的 Processing 算法，输入为工程中的图层。每个结果都是临时图层，Undo 会将它移除。</span></li><li><strong>由你确认</strong><span>导出，以及添加或移除图层，都会先询问。筛选条件只是一条单纯的 WHERE 子句，执行前会先检查。</span></li><li><strong>由你勾选的来源</strong><span>开放数据门户、WFS 服务、Sentinel-2 影像和 MCP 连接器，在你勾选之前全部关闭。</span></li><li><strong>先取得你的同意</strong><span>在你选好模型并同意之前，不会发送任何内容。指南列出了每次请求会一并发送的内容。</span></li><li><strong>MCP 服务器</strong><span>默认关闭。你电脑上的 Claude Code 或其他 MCP 客户端，可通过 127.0.0.1 并凭访问令牌操作 FilterMate。</span></li></ul>
+        <ul class="capability-list"><li><strong>你的模型</strong><span>Claude、Mistral、OpenAI 或兼容服务器使用你自己的 API 密钥，密钥保存在 QGIS 认证数据库中；本地的 Ollama 模型则不需要密钥。设置界面会引导这两种方式。</span></li><li><strong>逐步撤销</strong><span>筛选会立即应用。Undo 和 Redo 会逐个走过代理的请求，Undo back to here 则可回到任意一步。</span></li><li><strong>QGIS 算法</strong><span>它能搜索并运行会产生图层或统计值的 Processing 算法，输入为工程中的图层。每个结果都是临时图层，Undo 会将它移除。</span></li><li><strong>由你确认</strong><span>导出，以及添加或移除图层，都会先询问。筛选条件只是一条单纯的 WHERE 子句，执行前会先检查。</span></li><li><strong>由你勾选的来源</strong><span>开放数据门户、WFS 服务、Sentinel-2 影像和 MCP 连接器，在你勾选之前全部关闭。</span></li><li><strong>先取得你的同意</strong><span>在你选好模型并同意之前，不会发送任何内容。指南列出了每次请求会一并发送的内容。</span></li><li><strong>MCP 服务器</strong><span>默认关闭。你电脑上的 Claude Code 或其他 MCP 客户端，可通过 127.0.0.1 并凭访问令牌操作 FilterMate。</span></li></ul>
     </div>
 </section>
 
